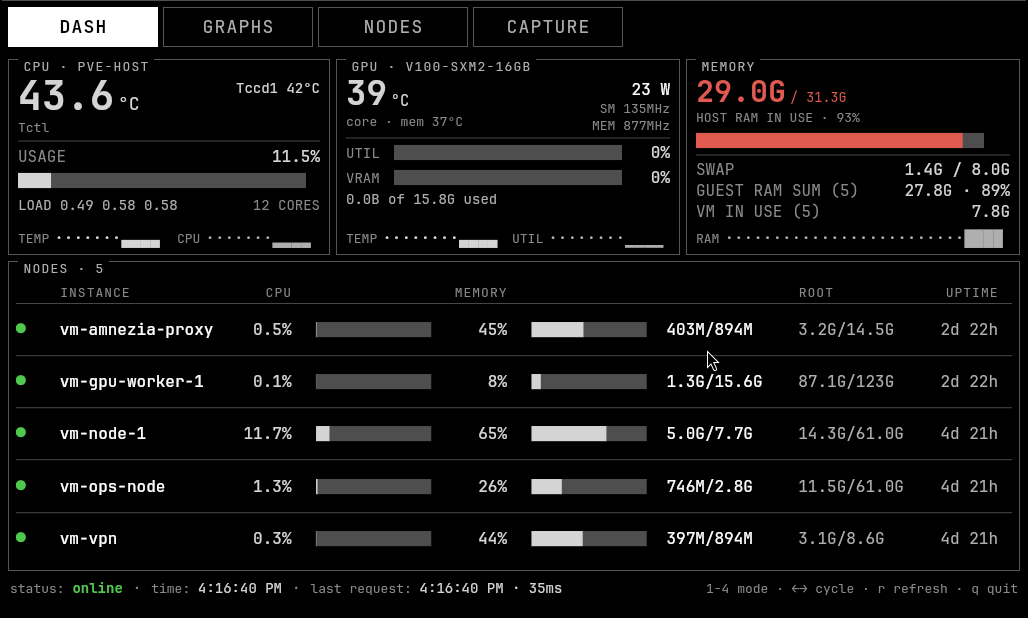
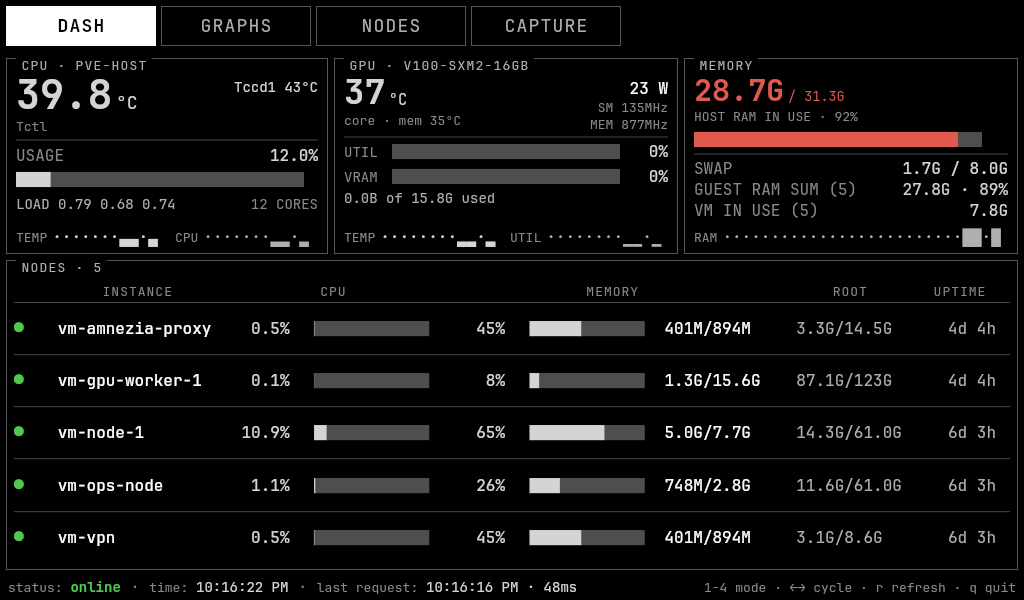
release: rackglass 1.1.1
A column heading now names its column rather than one edge of it. The
labels used to inherit the alignment of the values beneath them, so CPU
sat over the last digit of a percentage with the bar that repeats it
unlabelled to the right, and MEMORY over the percentage alone with its
bar and used/total pair reading as a third, nameless column.

Headings centre instead, and a heading may cover a run of columns: CPU
spans the number and its bar, MEMORY the percentage, the bar and the
used/total pair. That run cannot be a child of the row the cells are in,
because a Row places widgets between its spacers and not across them, so
the header repeats the row's arithmetic once and places each label at
the span it names. A test pins both edges of every heading to the cells
underneath, which is what stops the two layouts drifting apart.

Changed region(s): [[0.0, 0.0, 1.0, 0.99], [0.0625, 0.69, 0.1562, 0.75]]

diff --git a/lib/src/screens/dashboard_screen.dart b/lib/src/screens/dashboard_screen.dart
@@ -497,9 +497,7 @@ class _MemoryPanel extends StatelessWidget {
 /// One column of the node table: how wide it is, what it is called, and which
 /// side its content sits on. The header row and the data rows both read these,
 /// so a label cannot drift away from the values beneath it.
-/// One table cell, laid out from its column description. Header and row both
-/// go through this so a column can never be fixed in one and elastic in the
-/// other.
+/// One table cell, laid out from its column description.
 Widget _cell(
   _Column column, {
   required Key key,
@@ -517,6 +515,7 @@ class _Column {
     required this.id,
     required this.width,
     this.header = '',
+    this.span = 1,
     this.right = false,
   });
 
@@ -524,10 +523,16 @@ class _Column {
   final double width;
   final String header;
 
+  /// How many columns the heading names, counting this one. `CPU` is one
+  /// number and the bar repeating it; `MEMORY` is a percentage, its bar and the
+  /// used/total pair. The heading centres over the whole run, so it reads as
+  /// the name of that block rather than of the one narrow column it is
+  /// declared on.
+  final int span;
+
   /// Numbers are flushed right so their digits line up; names and compound
-  /// figures read left. The heading follows its column, so `CPU` sits over the
-  /// last digit of the percentage rather than floating off to the left of it
-  /// with the column's whole width in between.
+  /// figures read left. Headings ignore this and centre instead: a label names
+  /// its column, not the edge the values happen to sit on.
   final bool right;
 
   Alignment get align => right ? Alignment.centerRight : Alignment.centerLeft;
@@ -547,12 +552,19 @@ class _Column {
 abstract final class _Table {
   static const dot = _Column(id: 'dot', width: 24);
   static const name = _Column(id: 'name', width: 160, header: 'INSTANCE');
-  static const cpu = _Column(id: 'cpu', width: 52, header: 'CPU', right: true);
+  static const cpu = _Column(
+    id: 'cpu',
+    width: 52,
+    header: 'CPU',
+    span: 2,
+    right: true,
+  );
   static const cpuBar = _Column(id: 'cpuBar', width: 120, right: true);
   static const mem = _Column(
     id: 'mem',
     width: 56,
     header: 'MEMORY',
+    span: 3,
     right: true,
   );
   static const memBar = _Column(id: 'memBar', width: 120, right: true);
@@ -657,29 +669,60 @@ class _NodeTable extends StatelessWidget {
   }
 }
 
+/// The heading row.
+///
+/// A heading may cover several columns, so it cannot be a child of the same
+/// [Row] the cells are: a `Row` can only put a widget between two spacers, not
+/// across them. Instead the row's arithmetic is repeated once here — the gap
+/// between two columns is whatever is left over, shared equally — and each
+/// heading is placed at the span it names. The test pins these boxes to the
+/// cells beneath them, so the two layouts cannot drift apart unnoticed.
 class _TableHeader extends StatelessWidget {
   const _TableHeader();
 
   @override
   Widget build(BuildContext context) {
-    return Row(
-      crossAxisAlignment: CrossAxisAlignment.stretch,
-      children: [
-        for (var i = 0; i < _Table.columns.length; i++) ...[
-          if (i > 0) const Spacer(),
-          _cell(
-            _Table.columns[i],
-            key: ValueKey('head-${_Table.columns[i].id}'),
-            child: Text(
-              _Table.columns[i].header,
-              style: ts(size: TZ.caption, color: TC.dim, letterSpacing: 1),
-              maxLines: 1,
-              overflow: TextOverflow.clip,
-            ),
-          ),
-        ],
-        const SizedBox(width: _Table.tail),
-      ],
+    return LayoutBuilder(
+      builder: (context, box) {
+        const columns = _Table.columns;
+        final fixed =
+            columns.fold<double>(0, (sum, c) => sum + c.width) + _Table.tail;
+        final gap = math.max(0.0, (box.maxWidth - fixed) / (columns.length - 1));
+
+        // Left edge of every column, in the order the row lays them out.
+        final left = <double>[];
+        var x = 0.0;
+        for (final c in columns) {
+          left.add(x);
+          x += c.width + gap;
+        }
+
+        return Stack(
+          children: [
+            for (var i = 0; i < columns.length; i++)
+              if (columns[i].header.isNotEmpty)
+                Positioned(
+                  top: 0,
+                  bottom: 0,
+                  left: left[i],
+                  width:
+                      left[i + columns[i].span - 1] +
+                      columns[i + columns[i].span - 1].width -
+                      left[i],
+                  child: Align(
+                    key: ValueKey('head-${columns[i].id}'),
+                    child: Text(
+                      columns[i].header,
+                      style: ts(size: TZ.caption, color: TC.dim, letterSpacing: 1),
+                      textAlign: TextAlign.center,
+                      maxLines: 1,
+                      overflow: TextOverflow.clip,
+                    ),
+                  ),
+                ),
+          ],
+        );
+      },
     );
   }
 }

diff --git a/test/app_render_test.dart b/test/app_render_test.dart
@@ -132,30 +132,45 @@ void main() {
     );
   });
 
-  testWidgets('every header sits at the left edge of its column', (
+  testWidgets('every header spans exactly the columns it names', (
     tester,
   ) async {
     await pumpApp(tester);
 
     // Header and cell are keyed in pairs, so this compares the boxes rather
     // than whatever text happens to be inside them — a value can be flushed
-    // right inside its cell and still belong to a left-aligned heading.
-    for (final id in ['name', 'cpu', 'mem', 'root', 'uptime']) {
+    // right inside its cell and still belong to a heading centred over it.
+    //
+    // A heading that names several columns is pinned to the first and the last
+    // of them: `CPU` covers the number and its bar, `MEMORY` the percentage,
+    // its bar and the used/total pair. The header row computes its own
+    // geometry, so this is what keeps it in step with the rows.
+    const spans = <String, (String, String)>{
+      'name': ('name', 'name'),
+      'cpu': ('cpu', 'cpuBar'),
+      'mem': ('mem', 'memText'),
+      'root': ('root', 'root'),
+      'uptime': ('uptime', 'uptime'),
+    };
+
+    spans.forEach((id, span) {
       final head = find.byKey(ValueKey('head-$id'));
-      final cell = find.byKey(ValueKey('cell-$id-vm-node-1'));
+      final first = find.byKey(ValueKey('cell-${span.$1}-vm-node-1'));
+      final last = find.byKey(ValueKey('cell-${span.$2}-vm-node-1'));
       expect(head, findsOneWidget, reason: 'header $id');
-      expect(cell, findsOneWidget, reason: 'cell $id');
+      expect(first, findsOneWidget, reason: 'cell ${span.$1}');
+      expect(last, findsOneWidget, reason: 'cell ${span.$2}');
       expect(
         tester.getTopLeft(head).dx,
-        moreOrLessEquals(tester.getTopLeft(cell).dx, epsilon: 0.5),
-        reason: '$id header is not aligned with its column',
+        moreOrLessEquals(tester.getTopLeft(first).dx, epsilon: 0.5),
+        reason: '$id header does not start at its column',
       );
       expect(
         tester.getTopRight(head).dx,
-        moreOrLessEquals(tester.getTopRight(cell).dx, epsilon: 0.5),
-        reason: '$id header and column are different widths',
+        moreOrLessEquals(tester.getTopRight(last).dx, epsilon: 0.5),
+        reason: '$id header does not end at its column',
       );
-    }
+    });
   });
 
   testWidgets('the last column keeps clear of the panel frame', (
